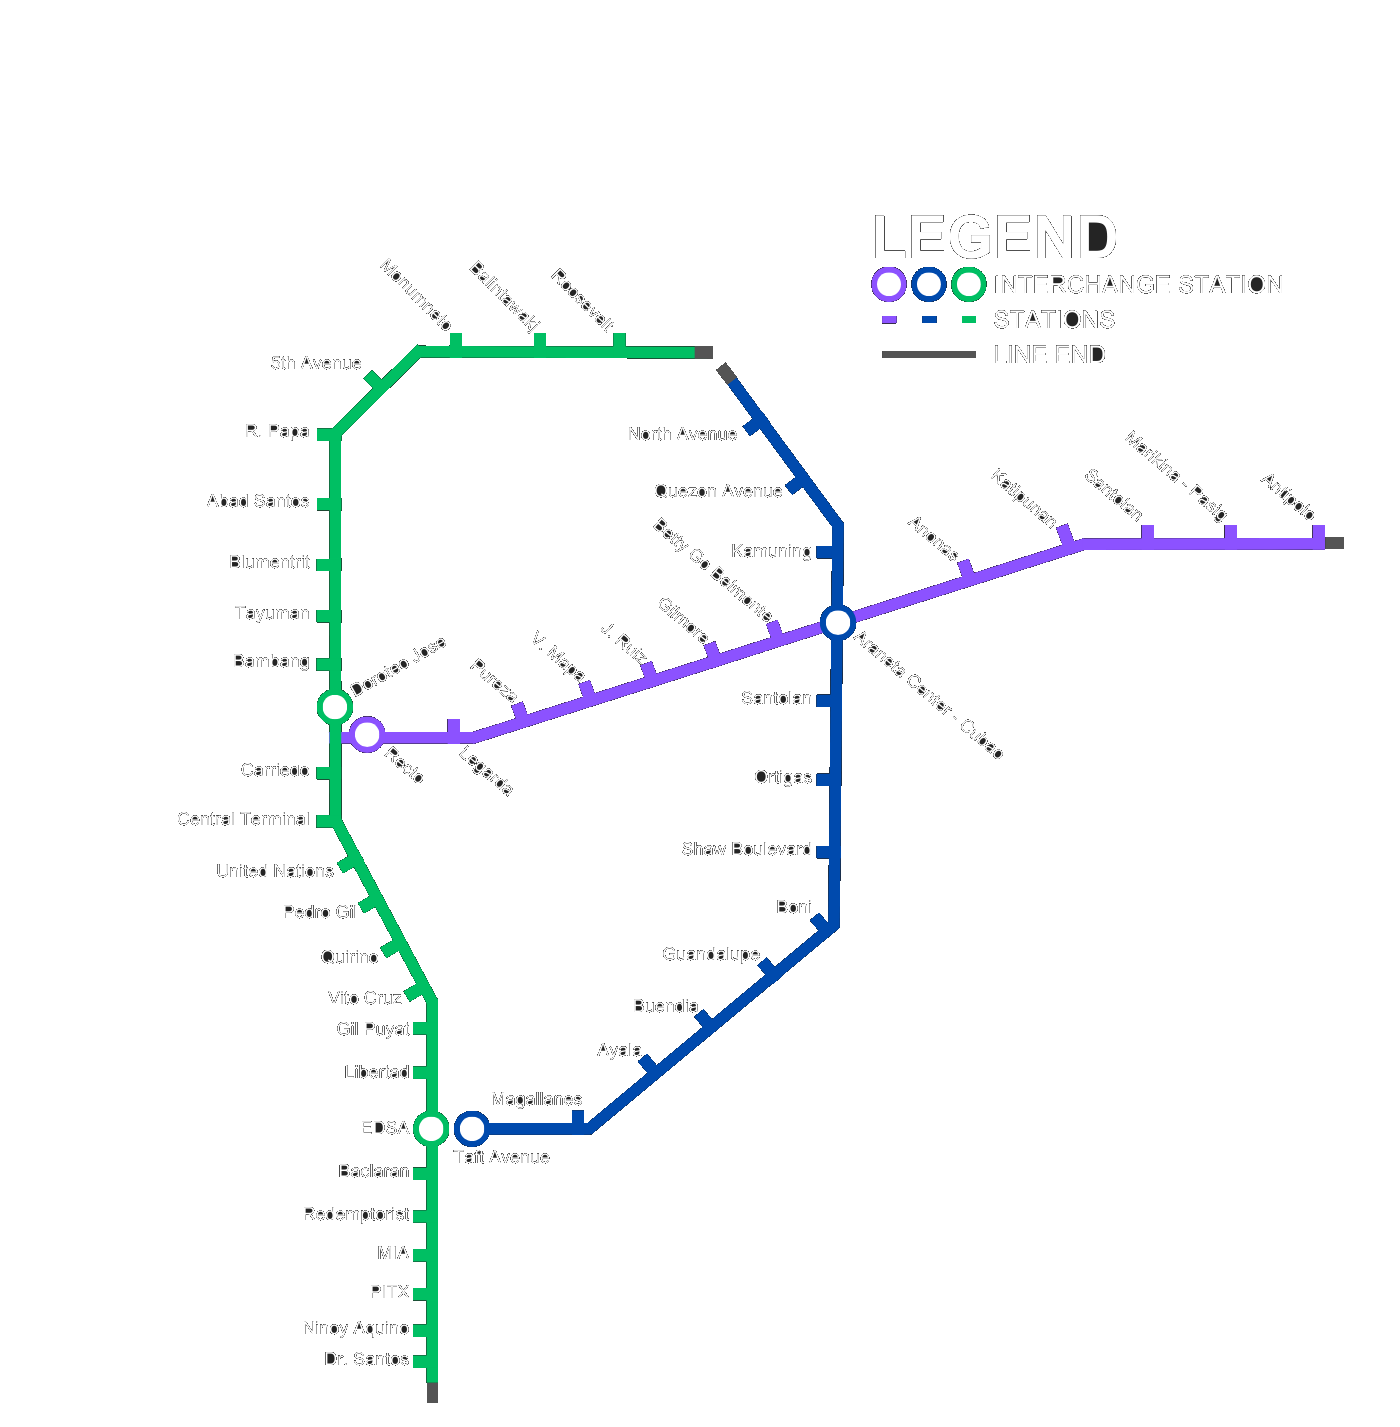
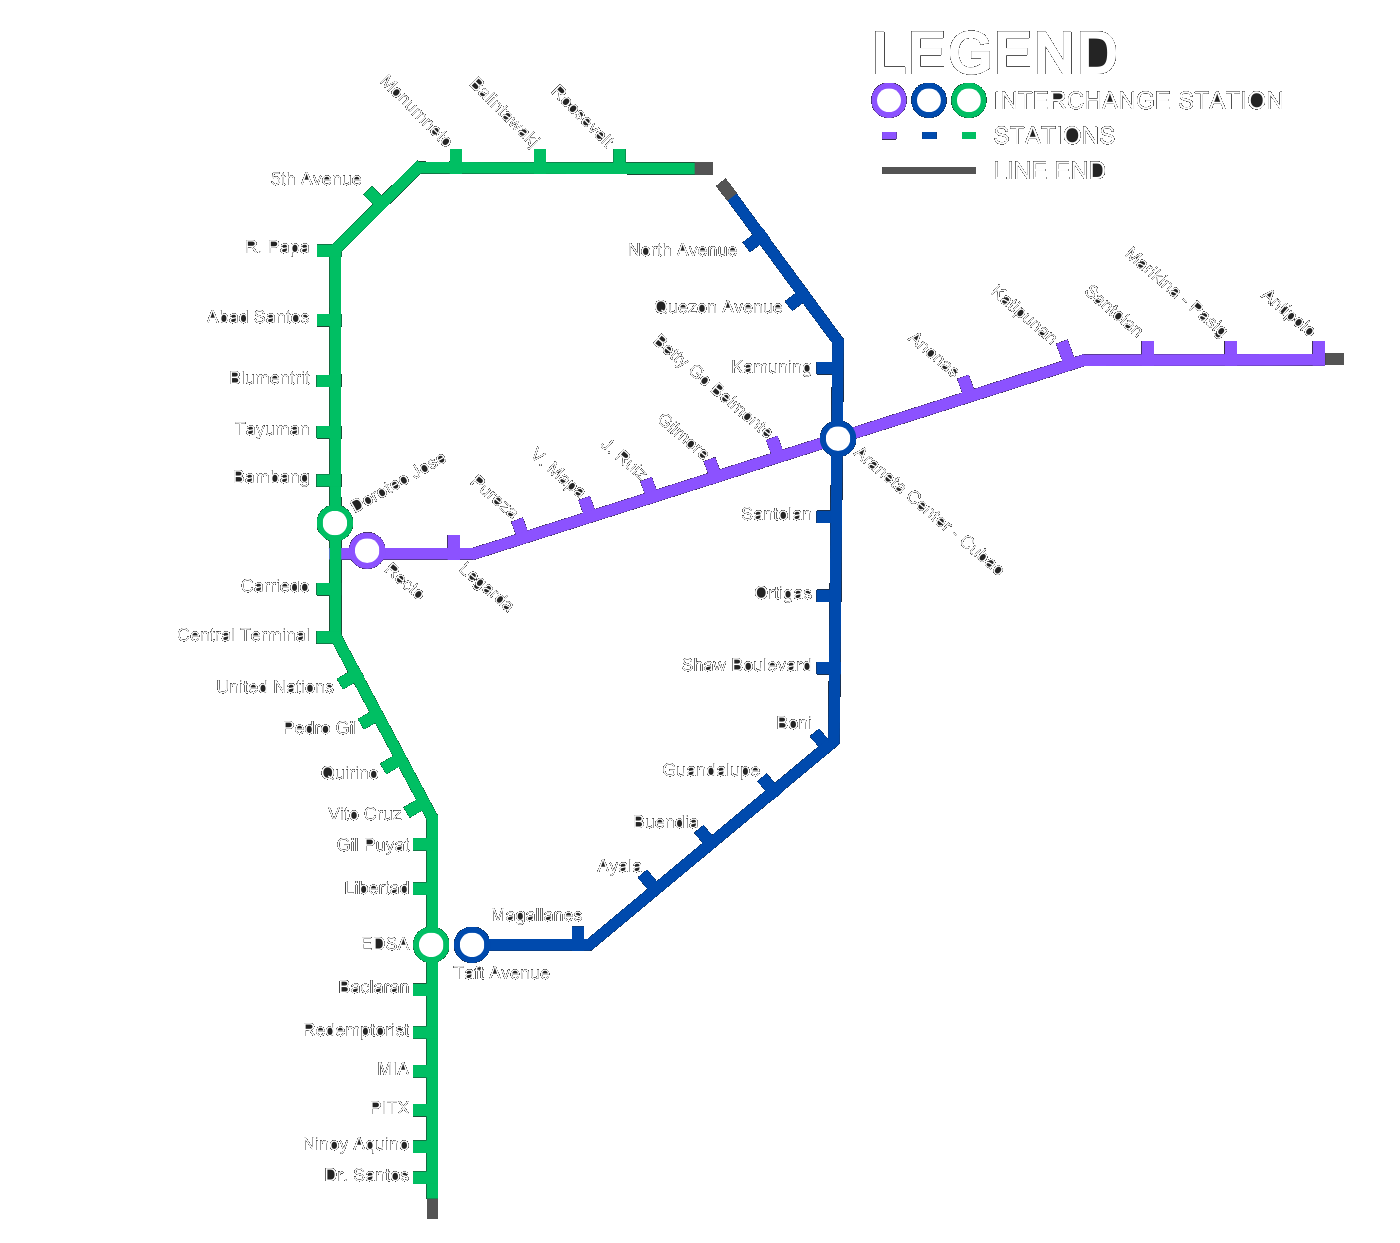
Added the new stations

diff --git a/templates/about_us.html b/templates/about_us.html
@@ -3,7 +3,7 @@
 <head>
     <meta charset="UTF-8">
     <meta name="viewport" content="width=device-width, initial-scale=1.0">
-    <title>About Us - The Baby MEN</title>
+    <title>About Us - The Baby Matrix</title>
     <style>
         @import url('https://fonts.googleapis.com/css2?family=Beaufort:wght@400;700&display=swap');
 
@@ -106,12 +106,12 @@
 </head>
 <body>
     <header>
-        <h1><font color=#E94E77>About Us - The Baby MEN</font></h1>
+        <h1><font color=#E94E77>About Us - The Baby Matrix</font></h1>
     </header>
     <div class="container">
         <section>
             <h1>Who Are We?</h1>
-            <p><h3>The Baby MEN are a close-knit group of friends united by shared interests in learning, playing games, and staying updated on the latest news. From exploring new ideas to enjoying each other's company, we thrive on the simple joys of connection and curiosity.</h3></p>
+            <p><h3>The Baby Matrix are a close-knit group of friends united by shared interests in learning, playing games, and staying updated on the latest news. From exploring new ideas to enjoying each other's company, we thrive on the simple joys of connection and curiosity.</h3></p>
             <p><h3>Our mission is to bring positivity, humor, and genuine connection to everyone we meet. Whether through our unique projects or everyday interactions, we aim to inspire and uplift.</h3></p><br>
         </section>
         <section>
@@ -123,7 +123,7 @@
             </ul>
         </section>
         <section>
-            <h1><center>Meet The Baby MEN</center></h1>
+            <h1><center>Meet The Baby Matrix</center></h1>
             <div class="team">
                 <a href="/babyboyleader" class="team-member leader">
                     <img src="{{ url_for('static', filename='images/Galdiano.png') }}"" alt="Leader">
@@ -131,34 +131,34 @@
                     <p>Leader - Cero (0)</p>
                 </a>
                 <a href="/babyboy1" class="team-member">
-                    <img src="{{ url_for('static', filename='images/Braganza.png') }}" alt="Baby MEN 1">
+                    <img src="{{ url_for('static', filename='images/Braganza.png') }}" alt="Baby Matrix 1">
                     <h3>Joshua Braganza</h3>
-                    <p>Baby MEN - Primera (1)</p>
+                    <p>Baby Matrix - Primera (1)</p>
                 </a>
                 <a href="/babyboy2" class="team-member">
-                    <img src="{{ url_for('static', filename='images/Calangian.png') }}"" alt="Baby MEN 2">
+                    <img src="{{ url_for('static', filename='images/Calangian.png') }}"" alt="Baby Matrix 2">
                     <h3>Emmanuel Calangian</h3>
-                    <p>Baby MEN - Segunda (2)</p>
+                    <p>Baby Matrix - Segunda (2)</p>
                 </a>
                 <a href="/babyboy3" class="team-member">
-                    <img src="{{ url_for('static', filename='images/Centina.jpg') }}"" alt="Baby MEN 3">
+                    <img src="{{ url_for('static', filename='images/Centina.jpg') }}"" alt="Baby Matrix 3">
                     <h3>Jan Raphael Centina</h3>
-                    <p>Baby MEN - Tres (3)</p>
+                    <p>Baby Matrix - Tres (3)</p>
                 </a>
                 <a href="/babyboy4" class="team-member">
-                    <img src="{{ url_for('static', filename='images/De Vera.jpg') }}" alt="Baby MEN 4">
+                    <img src="{{ url_for('static', filename='images/De Vera.jpg') }}" alt="Baby Matrix 4">
                     <h3>Jay De Vera</h3>
-                    <p>Baby MEN - Quatro (4)</p>
+                    <p>Baby Matrix - Quatro (4)</p>
                 </a>
                 <a href="/babyboy5" class="team-member">
-                    <img src="{{ url_for('static', filename='images/Plale.jpg') }}"" alt="Baby MEN 5">
+                    <img src="{{ url_for('static', filename='images/Plale.jpg') }}"" alt="Baby Matrix 5">
                     <h3>John Michael Plale</h3>
-                    <p>Baby MEN - Quinto (5)</p>
+                    <p>Baby Matrix - Quinto (5)</p>
                 </a>
                 <a href="/babyboy6" class="team-member">
-                    <img src="{{ url_for('static', filename='images/Valencia.png') }}"" alt="Baby MEN 6">
+                    <img src="{{ url_for('static', filename='images/Valencia.png') }}"" alt="Baby Matrix 6">
                     <h3>Zuriel Elijah Valencia</h3>
-                    <p>Baby MEN - Sexta (6)</p>
+                    <p>Baby Matrix - Sexta (6)</p>
                 </a>
             </div>
         </section><br><br><br>

diff --git a/static/js/map.js b/static/js/map.js
@@ -9,6 +9,22 @@ let posY = 0; // Current vertical position
 let isDragging = false; // Track dragging state
 let startX, startY; // Mouse starting position
 
+// Function to center the image based on its current size
+const centerImage = () => {
+    const initialWidth = img.offsetWidth;
+    const initialHeight = img.offsetHeight;
+    posX = (container.offsetWidth - initialWidth) / 2;
+    posY = (container.offsetHeight - initialHeight) / 2;
+    img.style.transform = `translate(${posX}px, ${posY}px) scale(${scale})`;
+};
+
+// Function to center the image if scale is 1
+const centerImageIfScaleOne = () => {
+    if (scale === 1) {
+        centerImage();
+    }
+};
+
 // Ensure the image starts at a size that fits the container
 const fitImageToContainer = () => {
     const containerRatio = container.offsetWidth / container.offsetHeight;
@@ -23,20 +39,18 @@ const fitImageToContainer = () => {
     }
 
     // Center the image initially
-    centerImage();
-};
-
-// Center the image based on its current size
-const centerImage = () => {
-    const initialWidth = img.offsetWidth;
-    const initialHeight = img.offsetHeight;
-    posX = (container.offsetWidth - initialWidth) / 2;
-    posY = (container.offsetHeight - initialHeight) / 2;
-    img.style.transform = `translate(${posX}px, ${posY}px) scale(${scale})`;
+    centerImageIfScaleOne();
 };
 
 // Call the fit function when the image loads
 img.onload = fitImageToContainer;
+
+// Center the image if it is already loaded
+if (img.complete) {
+    fitImageToContainer();
+} else {
+    img.onload = fitImageToContainer; // Ensure it fits when it loads
+}
 
 // Mouse down event to start dragging
 img.addEventListener('mousedown', (e) => {
@@ -70,14 +84,26 @@ container.addEventListener('wheel', (e) => {
     const zoomFactor = e.deltaY > 0 ? -0.1 : 0.1;
     scale = Math.min(maxScale, Math.max(minScale, scale + zoomFactor)); // Constrain scale
     img.style.transform = `translate(${posX}px, ${posY}px) scale(${scale})`;
+    
+    // Center the image if scale is 1 after zooming
+    centerImageIfScaleOne();
 });
 
 // Adjust image fit on window resize
 window.addEventListener('resize', () => {
     fitImageToContainer();
-    centerImage(); // Re-center the image on resize
+    centerImageIfScaleOne(); // Re-center the image on resize if scale is 1
 });
 
+// Prevent the default drag behavior
 img.addEventListener('dragstart', (e) => {
     e.preventDefault();
+});
+
+// Reset the image state on page unload
+window.addEventListener('beforeunload', () => {
+    scale = 1; // Reset scale
+    posX = 0; // Reset position X
+    posY = 0; // Reset position Y
+    img.style.transform = `translate(${posX}px, ${posY}px) scale(${scale})`; // Reset transform
 });

diff --git a/templates/lrtpath.html b/templates/lrtpath.html
@@ -327,6 +327,11 @@
                         <input type="text" id="start" class="selected selected1" placeholder="Select Station" readonly/>
                             <ul class="options-container options-container1">
                                 <li class="text-decoration">LRT 1</li>
+                                <li class="option option1">Dr. Santos</li>
+                                <li class="option option1">Ninoy Aquino</li>
+                                <li class="option option1">PITX</li>
+                                <li class="option option1">MIA</li>
+                                <li class="option option1">Redemptorist</li>
                                 <li class="option option1">Baclaran</li>
                                 <li class="option option1">EDSA</li>
                                 <li class="option option1">Libertad</li>
@@ -385,6 +390,11 @@
                         <input type="text" id="end" class="selected selected2" placeholder="Select Station" readonly/>
                             <ul class="options-container options-container2">
                                 <li class="text-decoration">LRT 1</li>
+                                <li class="option option2">Dr. Santos</li>
+                                <li class="option option2">Ninoy Aquino</li>
+                                <li class="option option2">PITX</li>
+                                <li class="option option2">MIA</li>
+                                <li class="option option2">Redemptorist</li>
                                 <li class="option option2">Baclaran</li>
                                 <li class="option option2">EDSA</li>
                                 <li class="option option2">Libertad</li>

diff --git a/static/js/dropdownjs.js b/static/js/dropdownjs.js
@@ -77,7 +77,7 @@ async function findPath() {
                 const p2 = document.createElement('p');
                 const p = document.createElement('p'); // Use <p> instead of <p2>
                 
-                p2.innerHTML = `<span style="color: #28bf68;">Path ${index + 1} (Stations: ${path.length})</span>:`;
+                p2.innerHTML = `<span style="color: #28bf68;">Path ${index + 1} (Stations: ${path.length}):</span>`;
                 p.innerHTML = `<span> ${path.join(' -> ')}</span>`;
                 
                 p2.style.fontSize = '20px';

diff --git a/templates/works.html b/templates/works.html
@@ -25,8 +25,8 @@
         <div class="left-content">
             <div class="heading">
                 <h1>WORKS</h1>
-                <h2>This contains the works of the baby</h2>
-                <h3>BOYS and what made them Baby MEN.</h3>
+                <h2>This contains the works of the Matrix</h2>
+                <h3>Visualize Data structure like babies.</h3>
             </div>
         </div>
         <div class = "right-content">

diff --git a/app.py b/app.py
@@ -37,6 +37,11 @@ g.add_edge("Santolan", "Marikina")
 g.add_edge("Marikina", "Antipolo")
 
 # LRT 1
+g.add_edge("Dr. Santos", "Ninoy Aquino")
+g.add_edge("Ninoy Aquino", "PITX")
+g.add_edge("PITX", "MIA")
+g.add_edge("MIA", "Redemptorist")
+g.add_edge("Redemptorist", "Baclaran")
 g.add_edge("Baclaran", "EDSA")
 g.add_edge("EDSA", "Libertad")
 g.add_edge("Libertad", "Gil Puyat")
@@ -56,6 +61,7 @@ g.add_edge("R. Papa", "5th Avenue")
 g.add_edge("5th Avenue", "Monumento")
 g.add_edge("Monumento", "Balintawak")
 g.add_edge("Balintawak", "Roosevelt")
+
 
 #Connecting Terminals
 g.add_edge("Taft Avenue", "EDSA")
